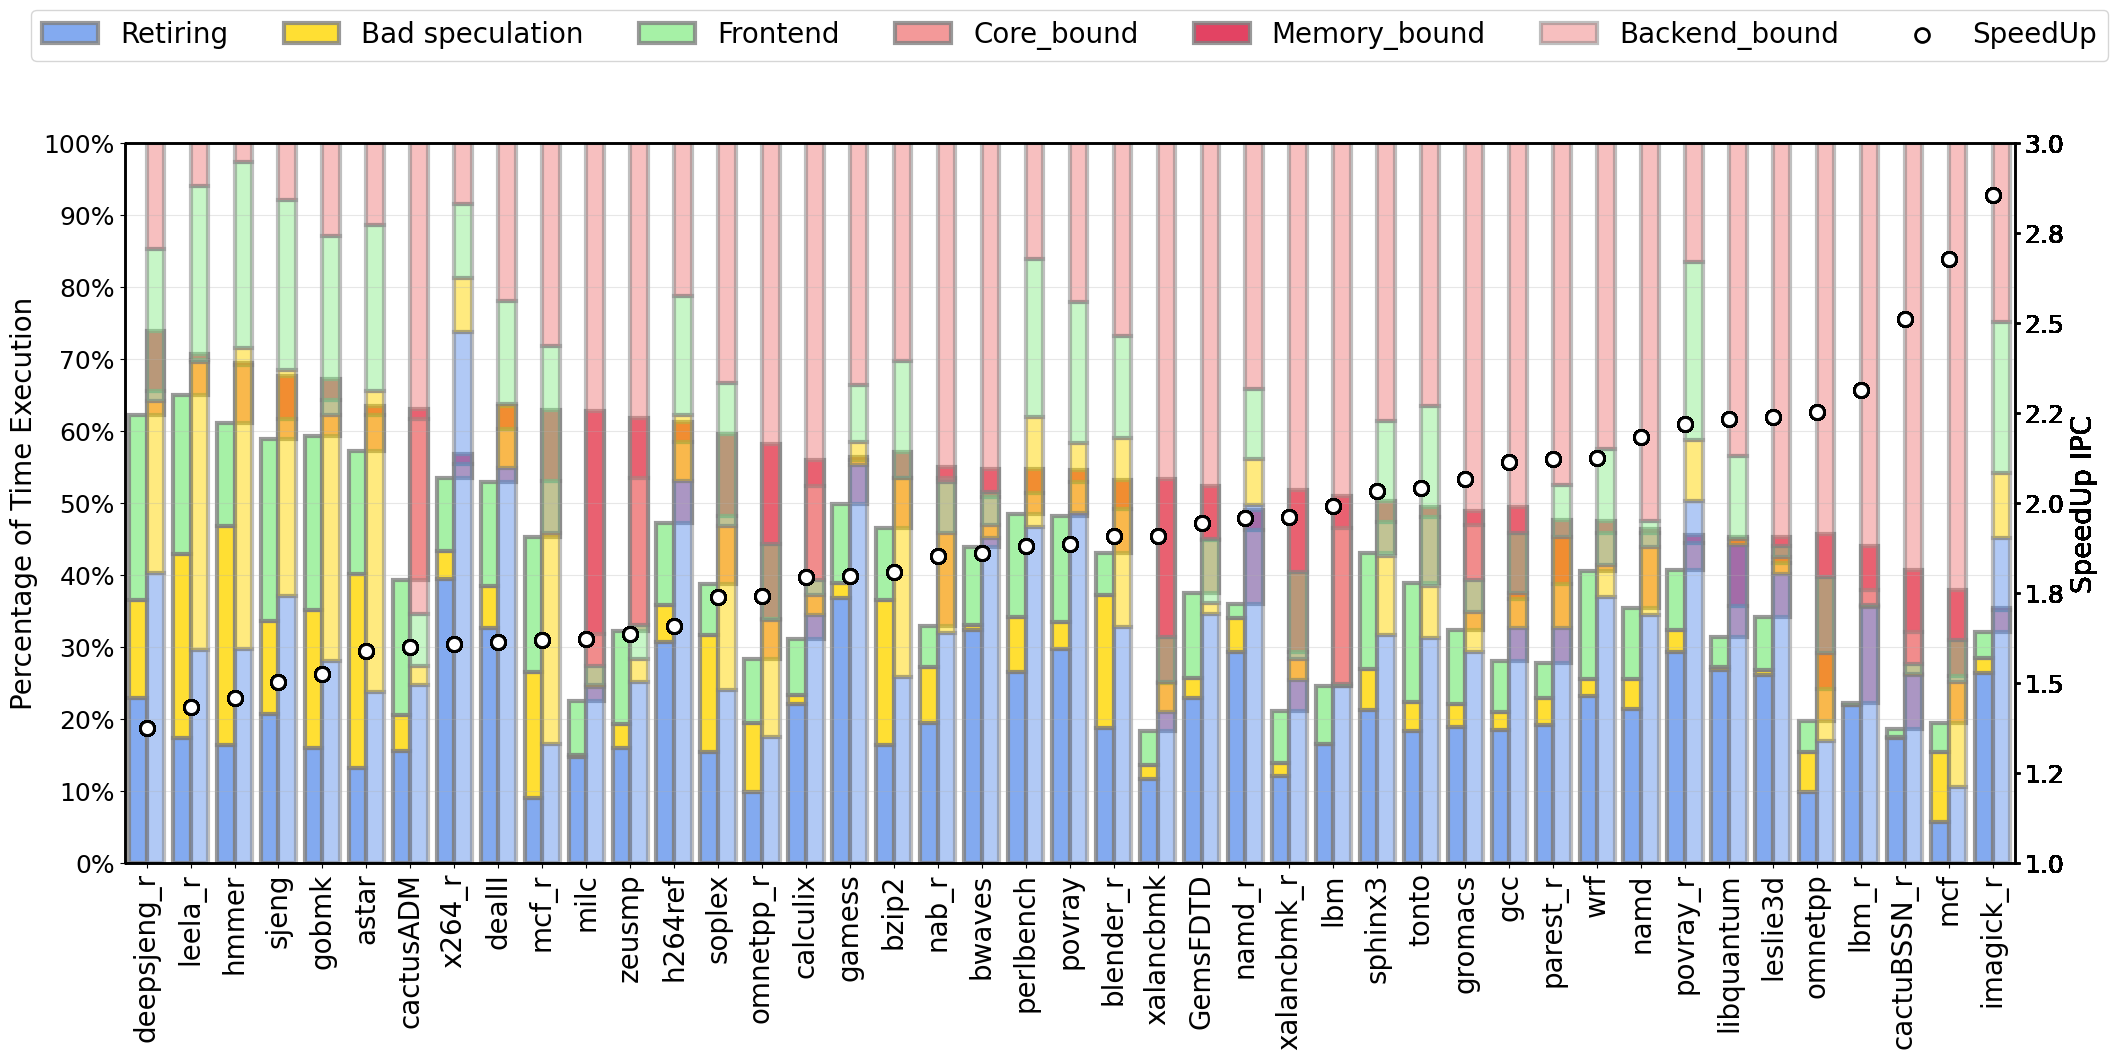
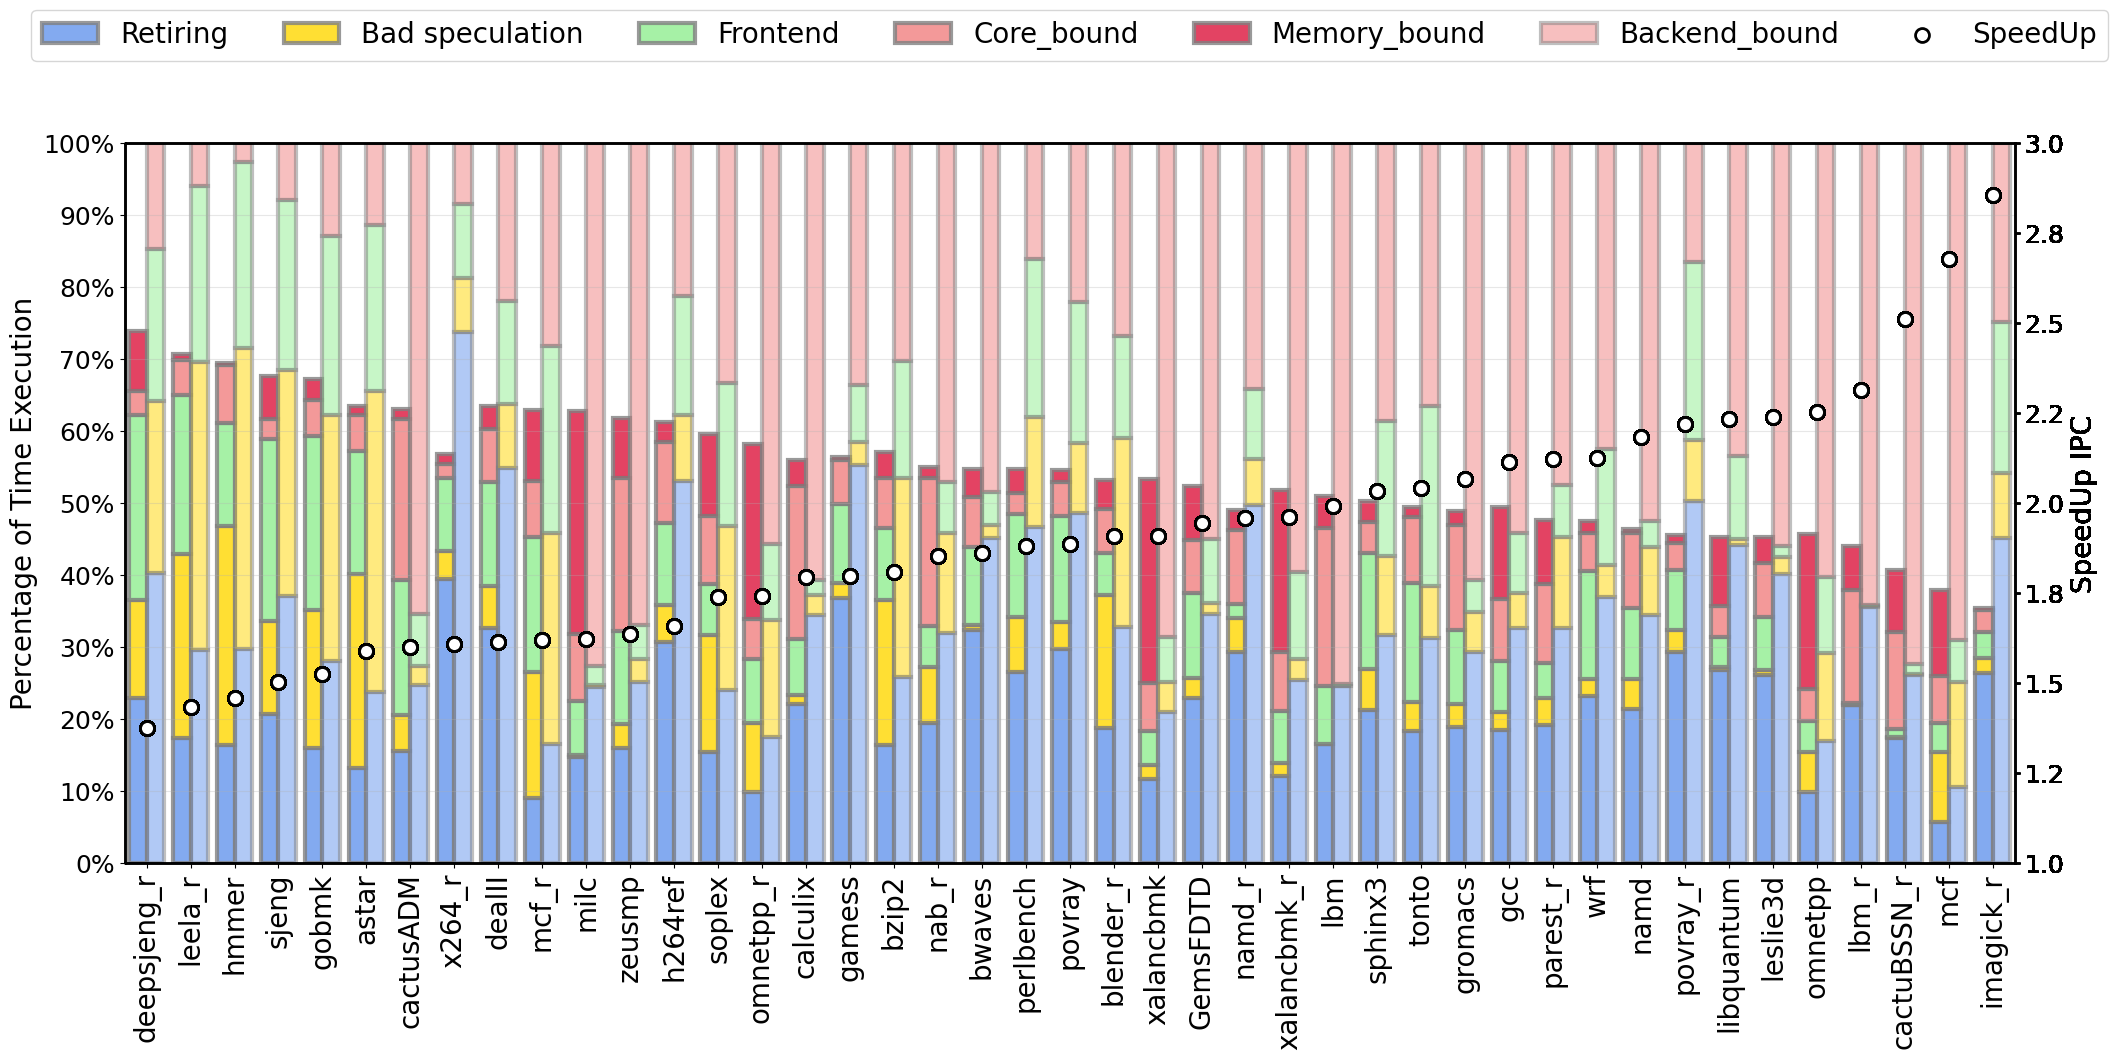
requetedone

Changed region(s): [[0.0623, 0.3113, 0.966, 0.6849]]

diff --git a/comparativa_topdown.py b/comparativa_topdown.py
@@ -93,11 +93,11 @@ def main():
                      label='Frontend' if i == 0 else "", color=color_map[2], alpha=0.8, edgecolor='gray', linewidth=3)
         
         cumulative_P += frontend_values[i][0]
-        p42 = ax1.bar(x_pos[i] + width/4, core_bound_values[i], width/2, bottom=cumulative_P,
+        p42 = ax1.bar(x_pos[i] - width/4, core_bound_values[i], width/2, bottom=cumulative_P,
                      label='Core_bound' if i == 0 else "", color=color_map[3], alpha=0.8, edgecolor='gray', linewidth=3)
         
         cumulative_P += core_bound_values[i]
-        p4 = ax1.bar(x_pos[i] + width/4, memory_bound_values[i], width/2, bottom=cumulative_P,
+        p4 = ax1.bar(x_pos[i] - width/4, memory_bound_values[i], width/2, bottom=cumulative_P,
                      label='Memory_bound' if i == 0 else "", color=color_map[4], alpha=0.8, edgecolor='gray', linewidth=3)
 
         cumulative_P += core_bound_values[i]
